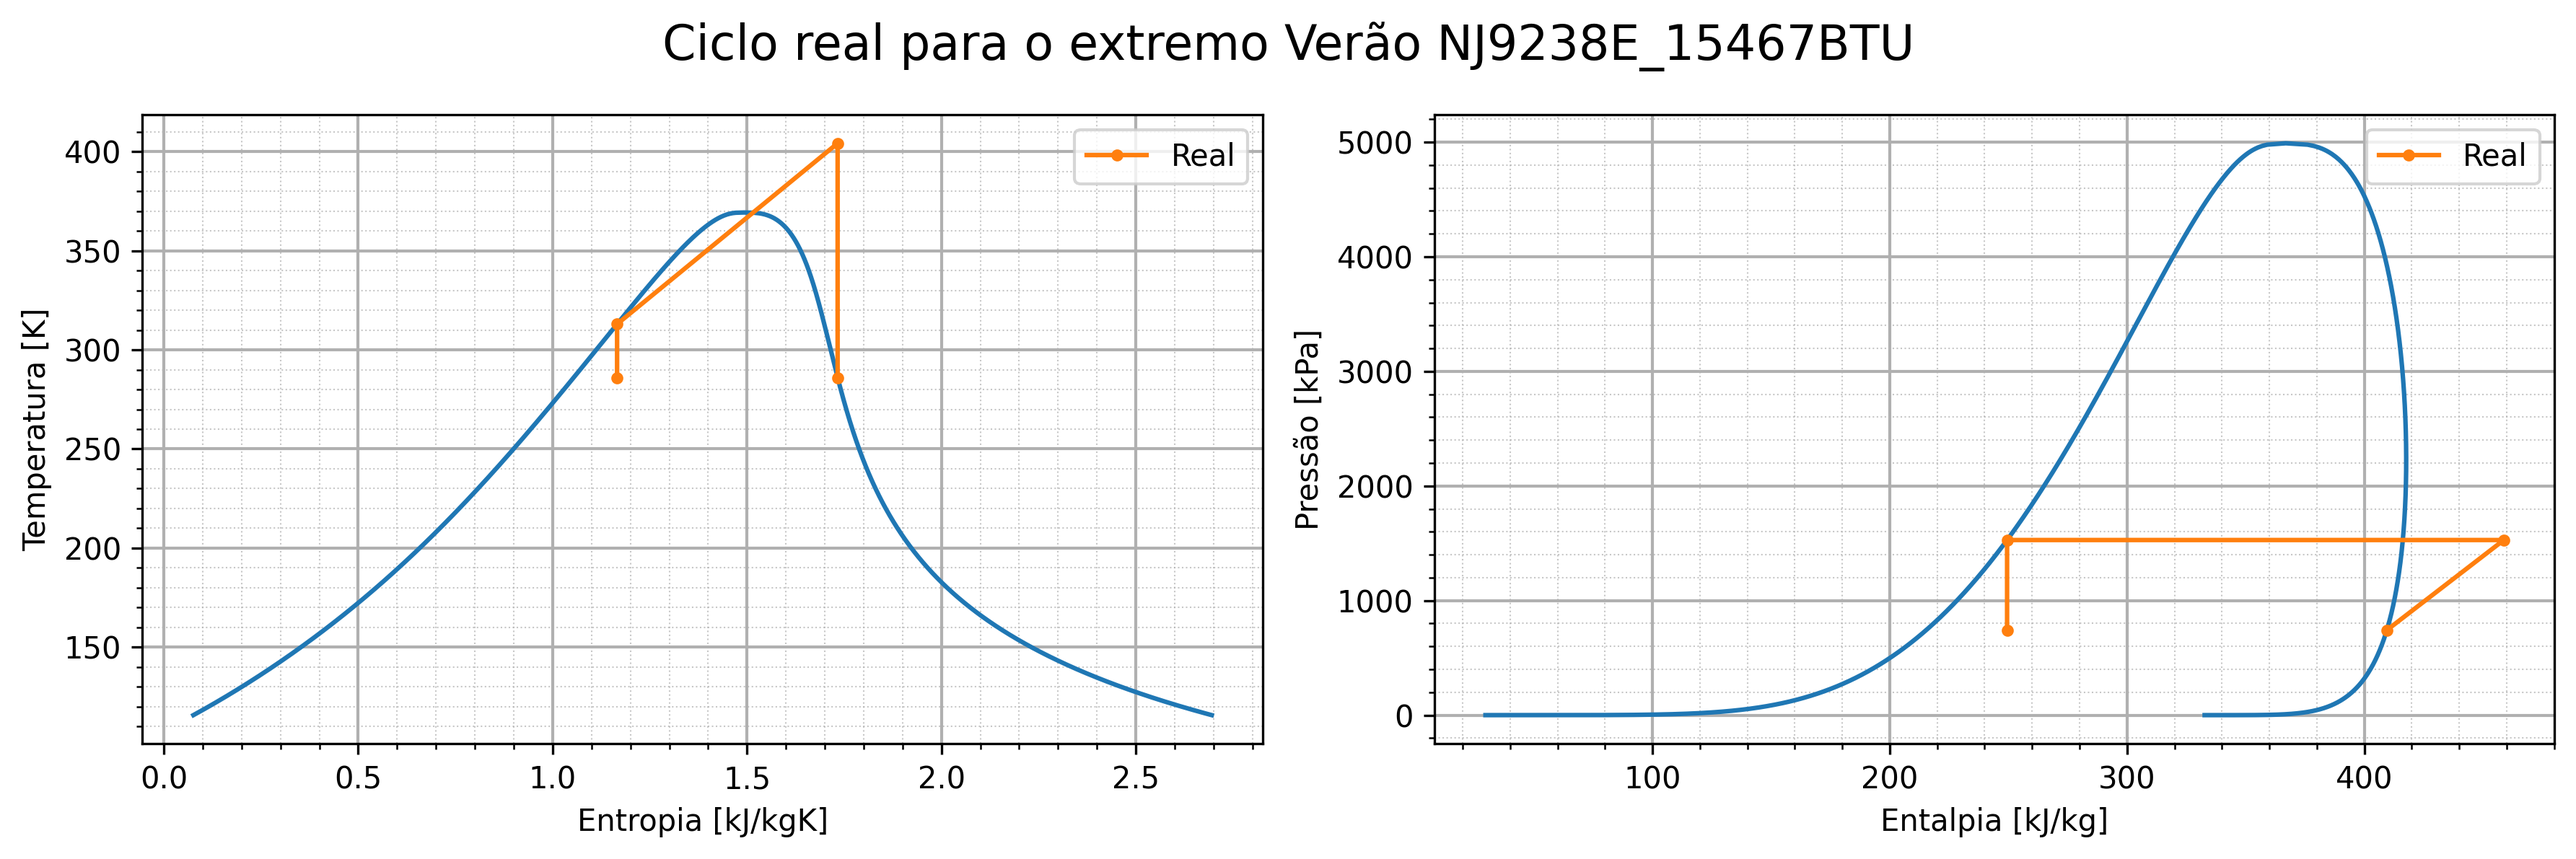
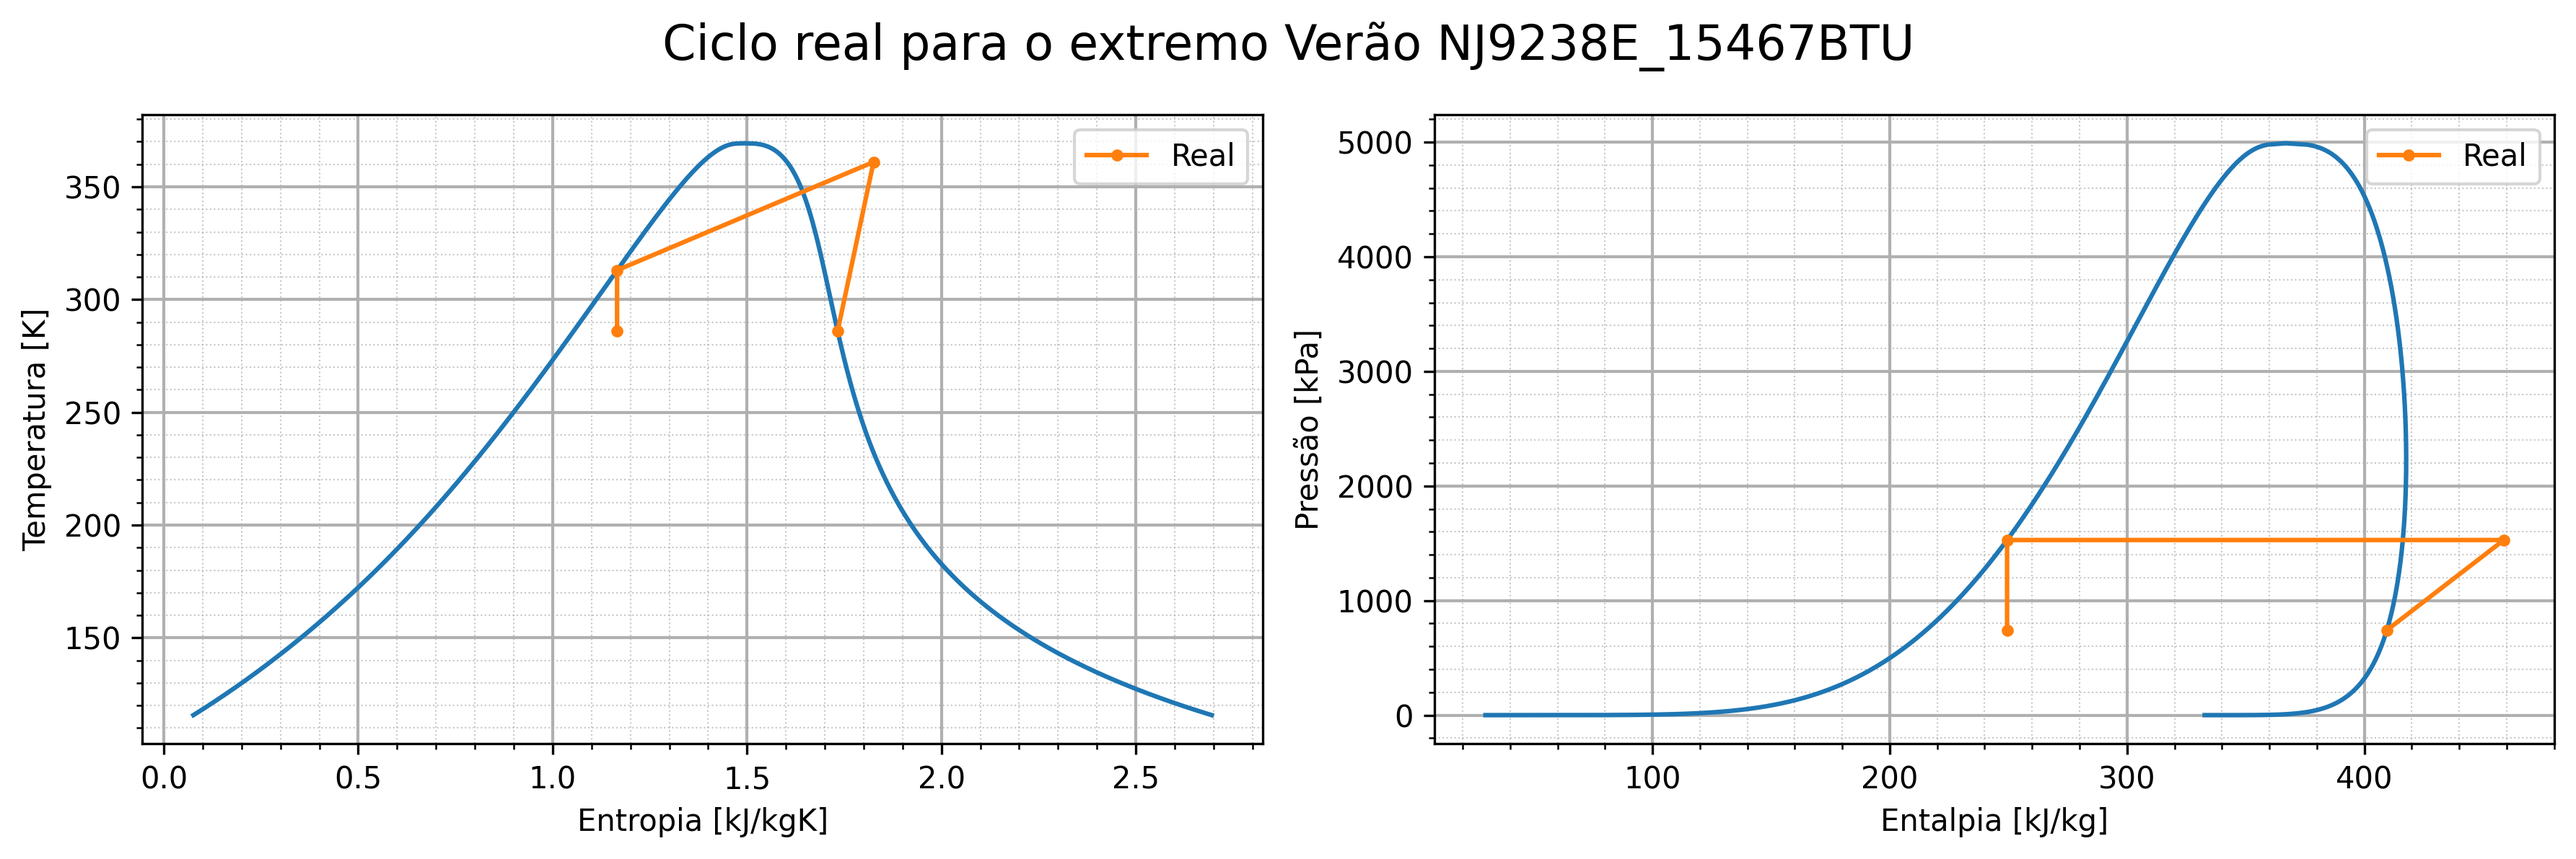
gráficos inverno e verão atualizados, com entropia diferenciada

Changed region(s): [[0.0311, 0.1553, 0.4975, 0.8388]]

diff --git a/Trab02/funcoes/calculo_com_UA.py b/Trab02/funcoes/calculo_com_UA.py
@@ -1,0 +1,194 @@
+"""
+BOMBA DE CALOR - Cálculo Simplificado
+Objetivo: Q_condensador > 4950 W
+"""
+
+import CoolProp.CoolProp as CP
+import pandas as pd
+
+
+def calc_inverno(liq_ref):
+    # ===== DADOS DE ENTRADA =====
+    UA_cond = 1416.68   # W/K - Coeficiente condensador
+    UA_evap = 1083.21   # W/K - Coeficiente evaporador
+    W_comp = 1667.35    # W - Trabalho do compressor
+    T_ext = 9           # °C - Temperatura externa (fria)
+    T_int = 18          # °C - Temperatura interna (a aquecer)
+
+    print("=" * 60)
+    print("BOMBA DE CALOR - Cálculo Simplificado")
+    print("=" * 60)
+    print(f"\nDados:")
+    print(f"  UA_condensador = {UA_cond} W/K")
+    print(f"  UA_evaporador = {UA_evap} W/K")
+    print(f"  W_compressor = {W_comp} W")
+    print(f"  T_externa = {T_ext} °C")
+    print(f"  T_interna = {T_int} °C")
+
+
+    # ===== MÉTODO ITERATIVO SIMPLES =====
+    print("\n" + "=" * 60)
+    print("CÁLCULO ITERATIVO")
+    print("=" * 60)
+
+    # Chutes iniciais
+    T_cond = T_int +2.4    # Condensador um pouco acima da temperatura interna
+    T_evap = T_ext -2.7  # Evaporador um pouco abaixo da temperatura externa
+
+    # Iteração
+    for i in range(100):
+        # Passo 1: Calcula Q_evap com T_evap atual
+        Q_evap = UA_evap * (T_ext - T_evap)
+        
+        # Passo 2: Pelo balanço de energia: Q_cond = Q_evap + W_comp
+        Q_cond_necessario = Q_evap + W_comp
+        
+        # Passo 3: Calcula T_cond necessário
+        T_cond_novo = T_int + Q_cond_necessario / UA_cond
+        
+        # Passo 4: Recalcula Q_cond com novo T_cond
+        Q_cond = UA_cond * (T_cond_novo - T_int)
+        
+        # Passo 5: Recalcula Q_evap pelo balanço
+        Q_evap_novo = Q_cond - W_comp
+        
+        # Passo 6: Calcula T_evap necessário
+        T_evap_novo = T_ext - Q_evap_novo / UA_evap
+        
+        # Verifica convergência
+        erro_cond = abs(T_cond_novo - T_cond)
+        erro_evap = abs(T_evap_novo - T_evap)
+        
+        # Atualiza temperaturas
+        T_cond = T_cond_novo
+        T_evap = T_evap_novo
+        
+        # Para quando convergir
+        if erro_cond < 1e-10 and erro_evap < 1e-10 and (Q_cond > 4395):
+            print(f"\nConvergiu em {i+1} iterações")
+            break
+        else: print("não convergiu")
+
+
+    # ===== RESULTADOS FINAIS =====
+    print("\n" + "=" * 60)
+    print("RESULTADOS")
+    print("=" * 60)
+
+    # Calcula os calores finais
+    Q_cond = UA_cond * (T_cond - T_int)
+    Q_evap = UA_evap * (T_ext - T_evap)
+
+    print(f"\nTemperaturas:")
+    print(f"  T_condensador = {T_cond:.2f} °C")
+    print(f"  T_evaporador = {T_evap:.2f} °C")
+    print(f"  Diferença (ΔT) = {T_cond - T_evap:.2f} °C")
+
+    print(f"\nCalores:")
+    print(f"  Q_condensador (calor emitido) = {Q_cond:.2f} W")
+    print(f"  Q_evaporador (calor absorvido) = {Q_evap:.2f} W")
+    print(f"  W_compressor = {W_comp:.2f} W")
+
+    print(f"\nVerificação do balanço:")
+    erro_balanco = abs(Q_cond - Q_evap - W_comp)
+    print(f"  Q_cond - (Q_evap + W_comp) = {erro_balanco:.4f} W")
+    if erro_balanco < 0.01:
+        print("  ✓ Balanço OK!")
+    else:
+        print("  ✗ Erro no balanço!")
+
+    print(f"\nEficiência:")
+    COP = Q_cond / W_comp
+    print(f"  COP = {COP:.2f}")
+    print(f"  Para cada 1 W consumido, fornece {COP:.2f} W de calor")
+
+
+    # ===== VERIFICAÇÃO DO OBJETIVO =====
+    print("\n" + "=" * 60)
+    print("VERIFICAÇÃO DO OBJETIVO")
+    print("=" * 60)
+    objetivo = 4395
+    print(f"  Objetivo: Q_condensador > {objetivo} W")
+    print(f"  Atual: Q_condensador = {Q_cond:.2f} W")
+
+    if Q_cond > objetivo:
+        print(f"  ✓ OBJETIVO ATINGIDO! ({Q_cond - objetivo:.2f} W acima)")
+    else:
+        print(f"  ✗ Objetivo não atingido (faltam {objetivo - Q_cond:.2f} W)")
+        print(f"\n  Para atingir {objetivo} W, você pode:")
+        print(f"    • Aumentar UA_condensador")
+        print(f"    • Aumentar W_compressor")
+        print(f"    • Aumentar UA_evaporador")
+
+
+    # ===== DETALHAMENTO DAS EQUAÇÕES =====
+    print("\n" + "=" * 60)
+    print("DETALHAMENTO DAS EQUAÇÕES USADAS")
+    print("=" * 60)
+    print("\n1. Calor no condensador (aquece o ambiente):")
+    print(f"   Q_cond = UA_cond × (T_cond - T_int)")
+    print(f"   Q_cond = {UA_cond} × ({T_cond:.2f} - {T_int})")
+    print(f"   Q_cond = {Q_cond:.2f} W")
+
+    print("\n2. Calor no evaporador (absorve do exterior):")
+    print(f"   Q_evap = UA_evap × (T_ext - T_evap)")
+    print(f"   Q_evap = {UA_evap} × ({T_ext} - {T_evap:.2f})")
+    print(f"   Q_evap = {Q_evap:.2f} W")
+
+    print("\n3. Balanço de energia:")
+    print(f"   Q_cond = Q_evap + W_comp")
+    print(f"   {Q_cond:.2f} = {Q_evap:.2f} + {W_comp:.2f}")
+    print(f"   {Q_cond:.2f} ≈ {Q_evap + W_comp:.2f} W ✓")
+
+    m = 0.0338362418
+    w = 1667.3531
+    QL_calc = Q_evap
+    QH = Q_cond
+
+    # PropriedadeS noS eStadoS
+    # EStado 1: Saída do evaporador / Entrada do compreSSor (vapor Saturado)
+    T1 = T_evap + 273
+    P1 = CP.PropsSI('P', 'T', T1, 'Q', 1, liq_ref)
+    H1 = CP.PropsSI('H', 'T', T1, 'Q', 1, liq_ref)
+    S1 = CP.PropsSI('S', 'T', T1, 'Q', 1, liq_ref)
+    
+    # EStado 2: Saída do compreSSor / Entrada do condenSador (compreSSão iSentrópica)
+    
+    # EStado 3: Saída do condenSador / Entrada do capilar (líquido Saturado)
+    T3 = T_cond + 273
+    P3 = CP.PropsSI('P', 'T', T3, 'Q', 0, liq_ref)
+    H3 = CP.PropsSI('H', 'T', T3, 'Q', 0, liq_ref)
+    S3 = CP.PropsSI('S', 'T', T3, 'Q', 0, liq_ref)
+
+    P2 = P3
+    H2 = CP.PropsSI('H', 'P', P2, 'S', S1, liq_ref)
+    T2 = CP.PropsSI('T', 'P', P2, 'S', S1, liq_ref)
+    S2 = S1
+    
+    # EStado 4: Saída do capilar / Entrada do evaporador (expanSão iSentálpica)
+    T4 = T_evap + 273
+    P4 = P1
+    H4 = H3  # ExpanSão iSentálpica
+    S4 = S3
+
+
+    df_ciclo_real = pd.DataFrame({
+        'Entrada': ['Compressor', 'Condensador', 'Capilar', 'Evaporador'],
+        'T': [T1, T2, T3, T4],
+        'P': [P1, P2, P3, P4],
+        'H': [H1, H2, H3, H4],
+        'S': [S1, S2, S3, S4],
+        }, index=[1, 2, 3, 4] )
+
+    real_dict={
+        "compressor": "NJ9238E_15467BTU",
+        "COP": COP,
+        "QL": QL_calc,
+        "QH": QH,
+        "m": m,
+        "w": w,
+        "df_ciclo": df_ciclo_real
+    }
+
+
+    return real_dict

diff --git a/Trab02/main.py b/Trab02/main.py
@@ -2,6 +2,7 @@ from funcoes.ciclo_carnot import *
 from funcoes.print_ciclo import *
 from funcoes.calc_ciclo import*
 from funcoes.plot_barras import*
+from funcoes.calculo_com_UA import*
 import pandas as pd
 
 from funcoes.calc_UA import*
@@ -68,7 +69,7 @@ for compressor in lista_compressores:
 
     #! Errado:
     # real_dict_inverno = funcao_padrao_real(compressor, liq_ref, T_interior+5, T_ext_inverno-5, "inverno")
-    # # print("\nCondições Ideais Verão:\n", real_dict_inverno)
+    # # print("\nCondições Ideais inverno:\n", real_dict_inverno)
     # plot_ciclo(df_ciclo_real = real_dict_inverno["df_ciclo"],  liq_ref=liq_ref, descricao=f"Ciclo real para o extremo Inverno {compressor}")
 
     # ? plot_ciclo(df_ciclo_real = real_dict_inverno["df_ciclo"], df_ciclo_ideal = carnot_inverno["df_ciclo"],  liq_ref=liq_ref, descricao="Comparação ciclos Inverno")
@@ -83,11 +84,20 @@ for compressor in lista_compressores:
     real_dict_verao.pop('df_ciclo')
     resultados_verao.append(real_dict_verao)
 
+    
+
     # real_dict_inverno.pop('df_ciclo')
     # resultados_inverno.append(real_dict_inverno)
 
 
 #* União dataframes
+
+real_dict_inverno = calc_inverno(liq_ref)
+print("\nCondições Ideais inverno:\n", real_dict_inverno)
+plot_ciclo(df_ciclo_real = real_dict_inverno["df_ciclo"],  liq_ref=liq_ref, descricao=f"Ciclo real para o extremo Inverno NJ9238E_15467BTU")
+
+real_dict_inverno.pop('df_ciclo')
+resultados_inverno.append(real_dict_inverno)
 
 compilado_compressores_verao = pd.DataFrame(resultados_verao)
 compilado_compressores_inverno = pd.DataFrame(resultados_inverno)

diff --git a/Trab02/funcoes/calc_ciclo.py b/Trab02/funcoes/calc_ciclo.py
@@ -62,7 +62,7 @@ def funcao_padrao_real(compressor, liq_ref, T3, T1, estacao):
     QL_calc,m, w, H2, H3, S1, P1, P2 = funcao_convergencia(df_compressor, T1, T3, liq_ref)
 
     try:
-        T2 = CP.PropsSI('T', 'H', H2, 'S', S1, liq_ref)
+        T2 = CP.PropsSI('T', 'H', H2, 'P', P2, liq_ref)
 
     except:
         T2=np.nan
@@ -81,7 +81,7 @@ def funcao_padrao_real(compressor, liq_ref, T3, T1, estacao):
 
     H1 = CP.PropsSI('H', 'T', T1, 'S', S1, liq_ref)
 
-    S2 = S1
+    S2 = CP.PropsSI('S', 'T', T2, 'P', P2, liq_ref)
 
     S3 = CP.PropsSI('S', 'T', T3, 'Q', 0, liq_ref)
     P3 = CP.PropsSI('P', 'T', T3, 'Q', 0, liq_ref)
